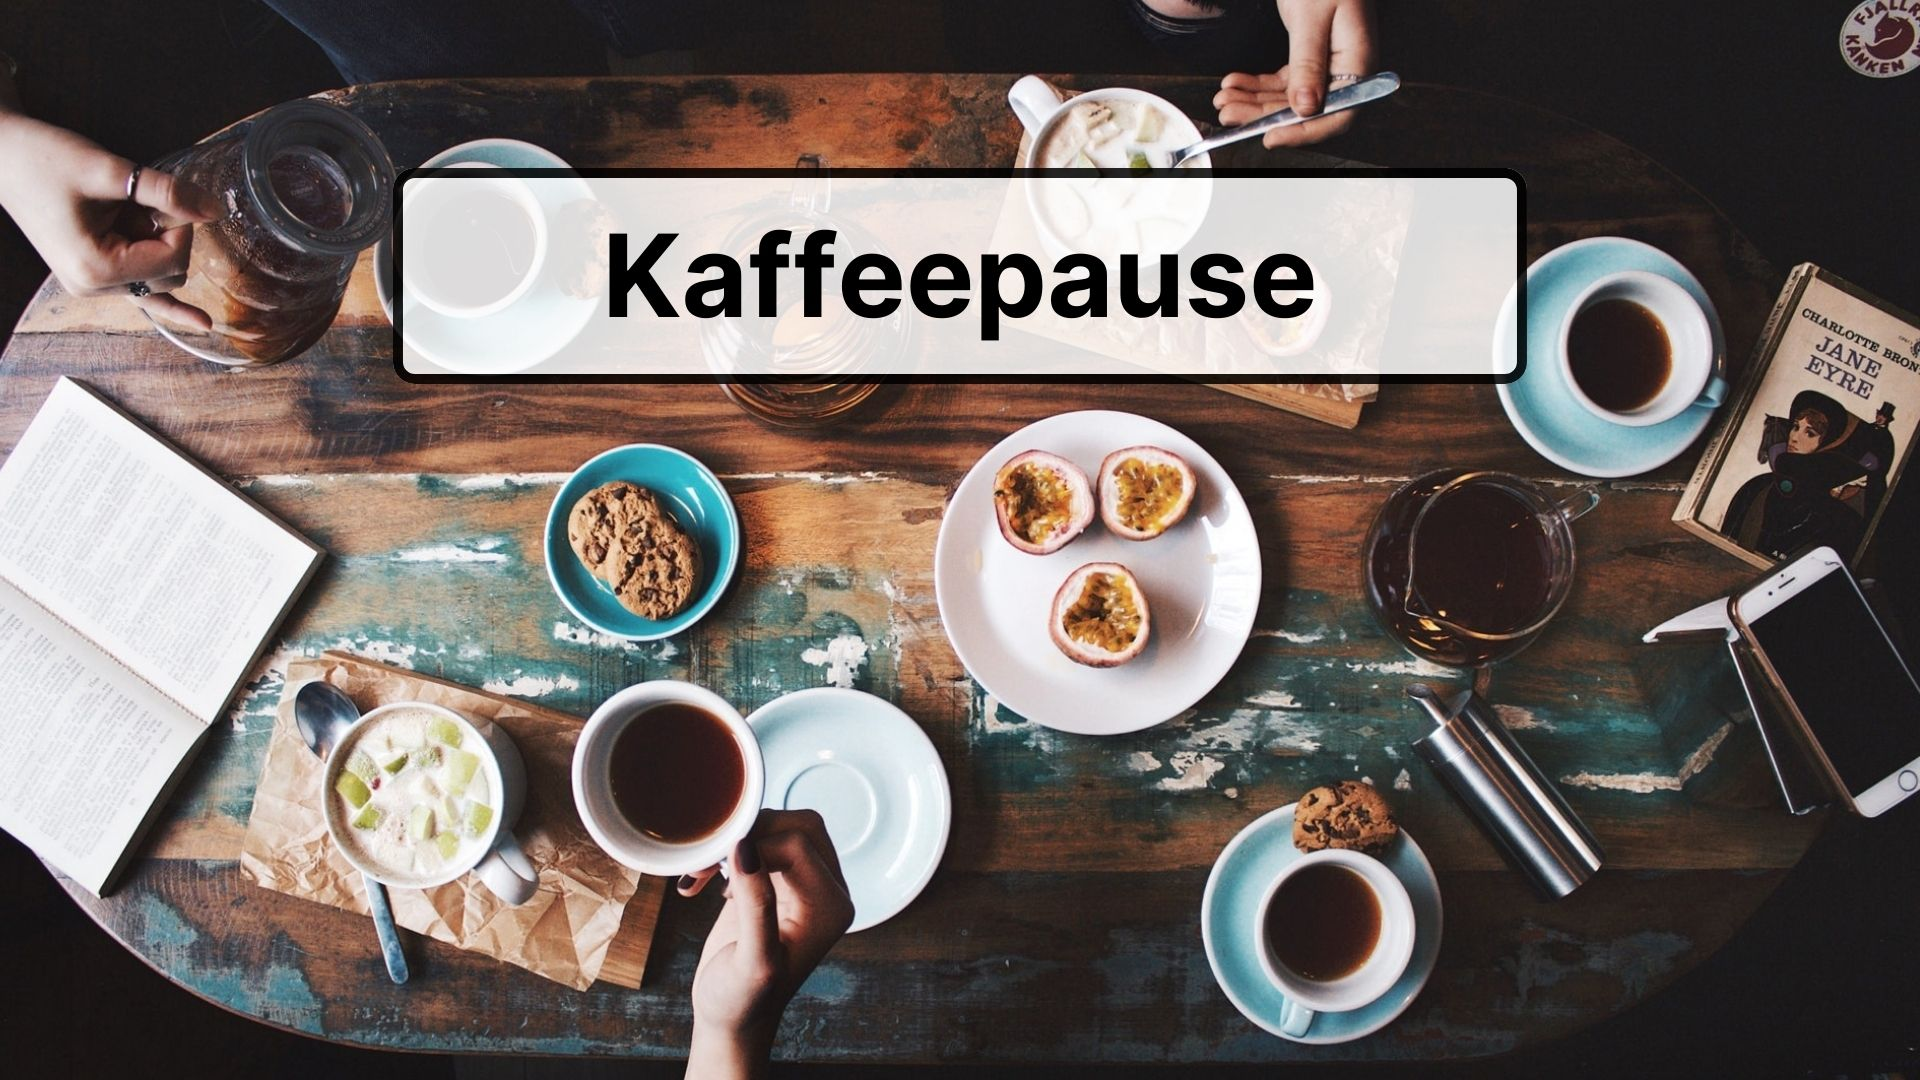
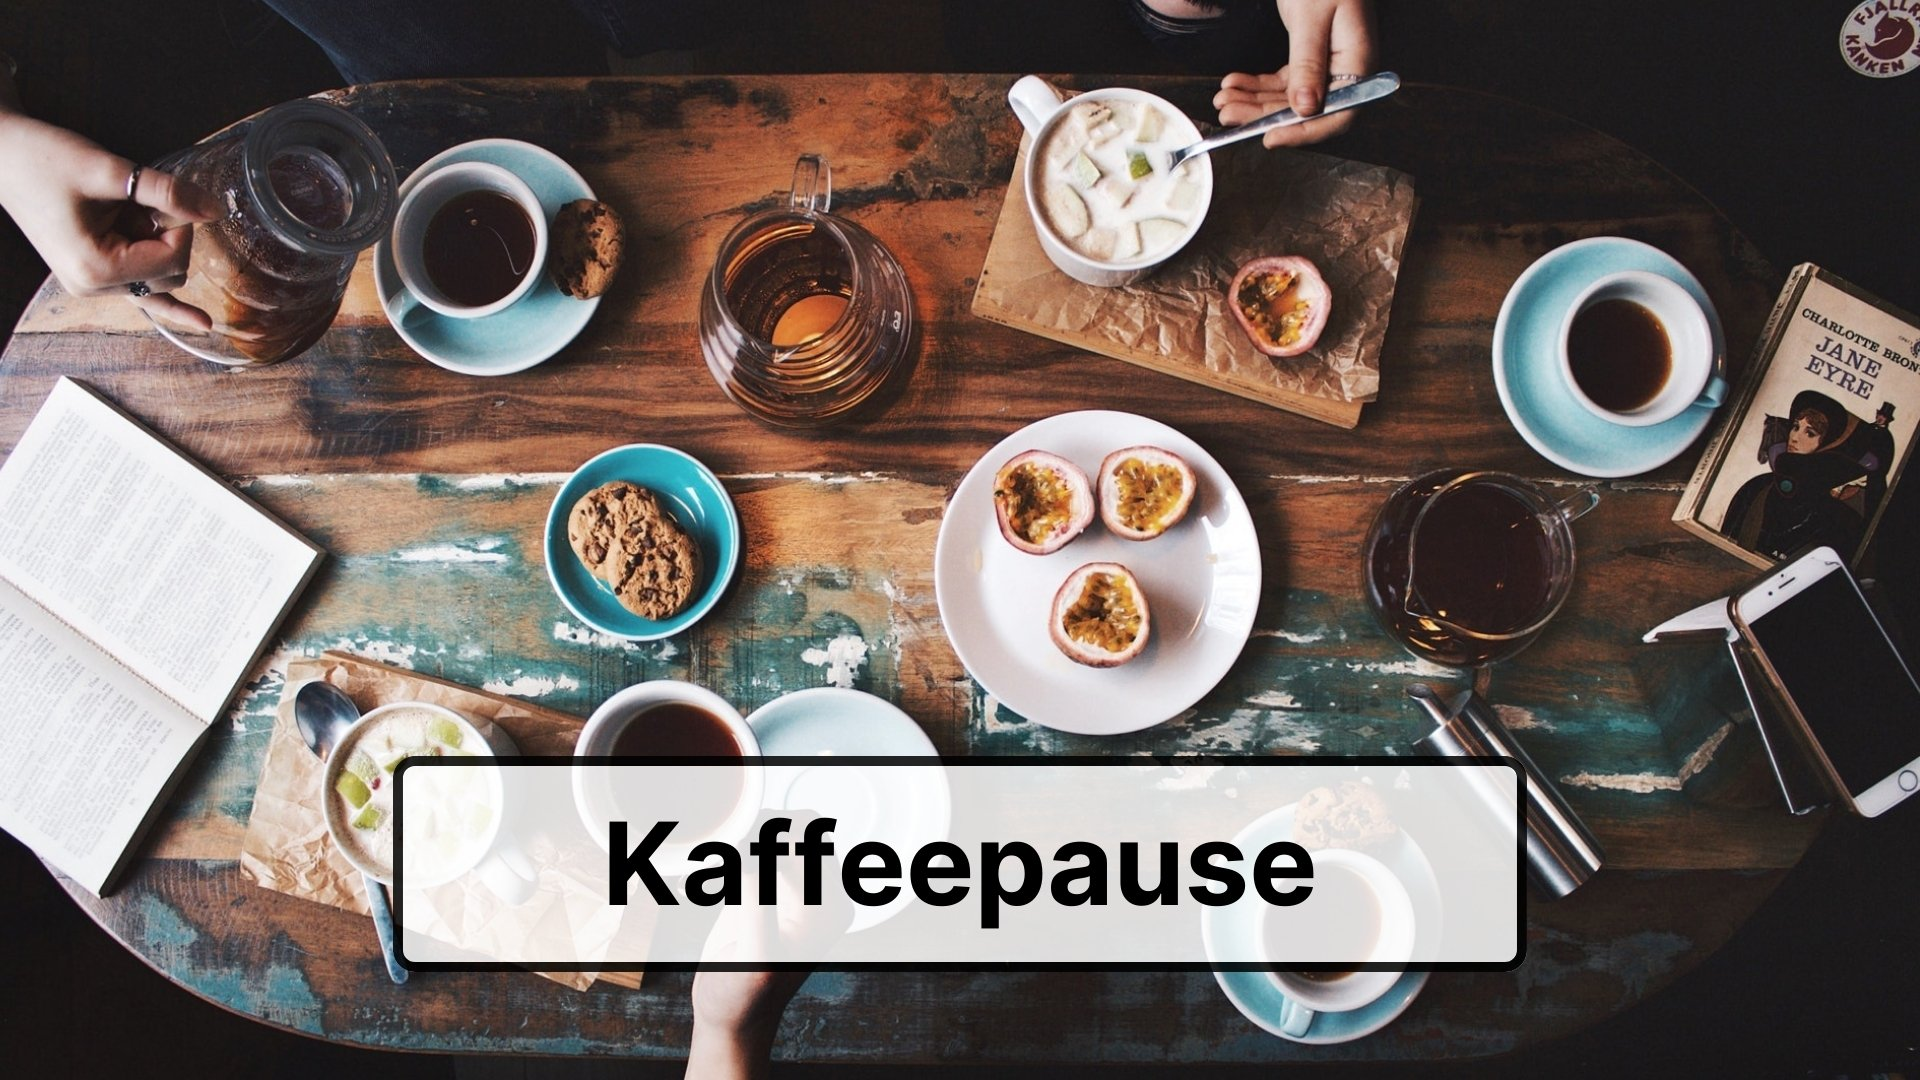
media: Update WorkPhase images and add new set for video conferences

Changed region(s): [[0.1875, 0.7028, 0.8125, 0.9167], [0.1875, 0.1528, 0.8125, 0.3667]]

diff --git a/src/components/WorkPhase/WorkPhase.js b/src/components/WorkPhase/WorkPhase.js
@@ -40,6 +40,14 @@ export default function WorkPhase({ id, visible, onHide, onChange }) {
         "/assets/images/think.jpg",
       ],
     },
+    {
+      description: "Videokonferenzen",
+      images: [
+        "/assets/images/herzlich-willkommen.jpg",
+        "/assets/images/kamera-anschalten.jpg",
+        "/assets/images/fragen-im-chat.jpg",
+      ],
+    },
     { description: "Eigene Bilder", images: [] },
   ];
 
